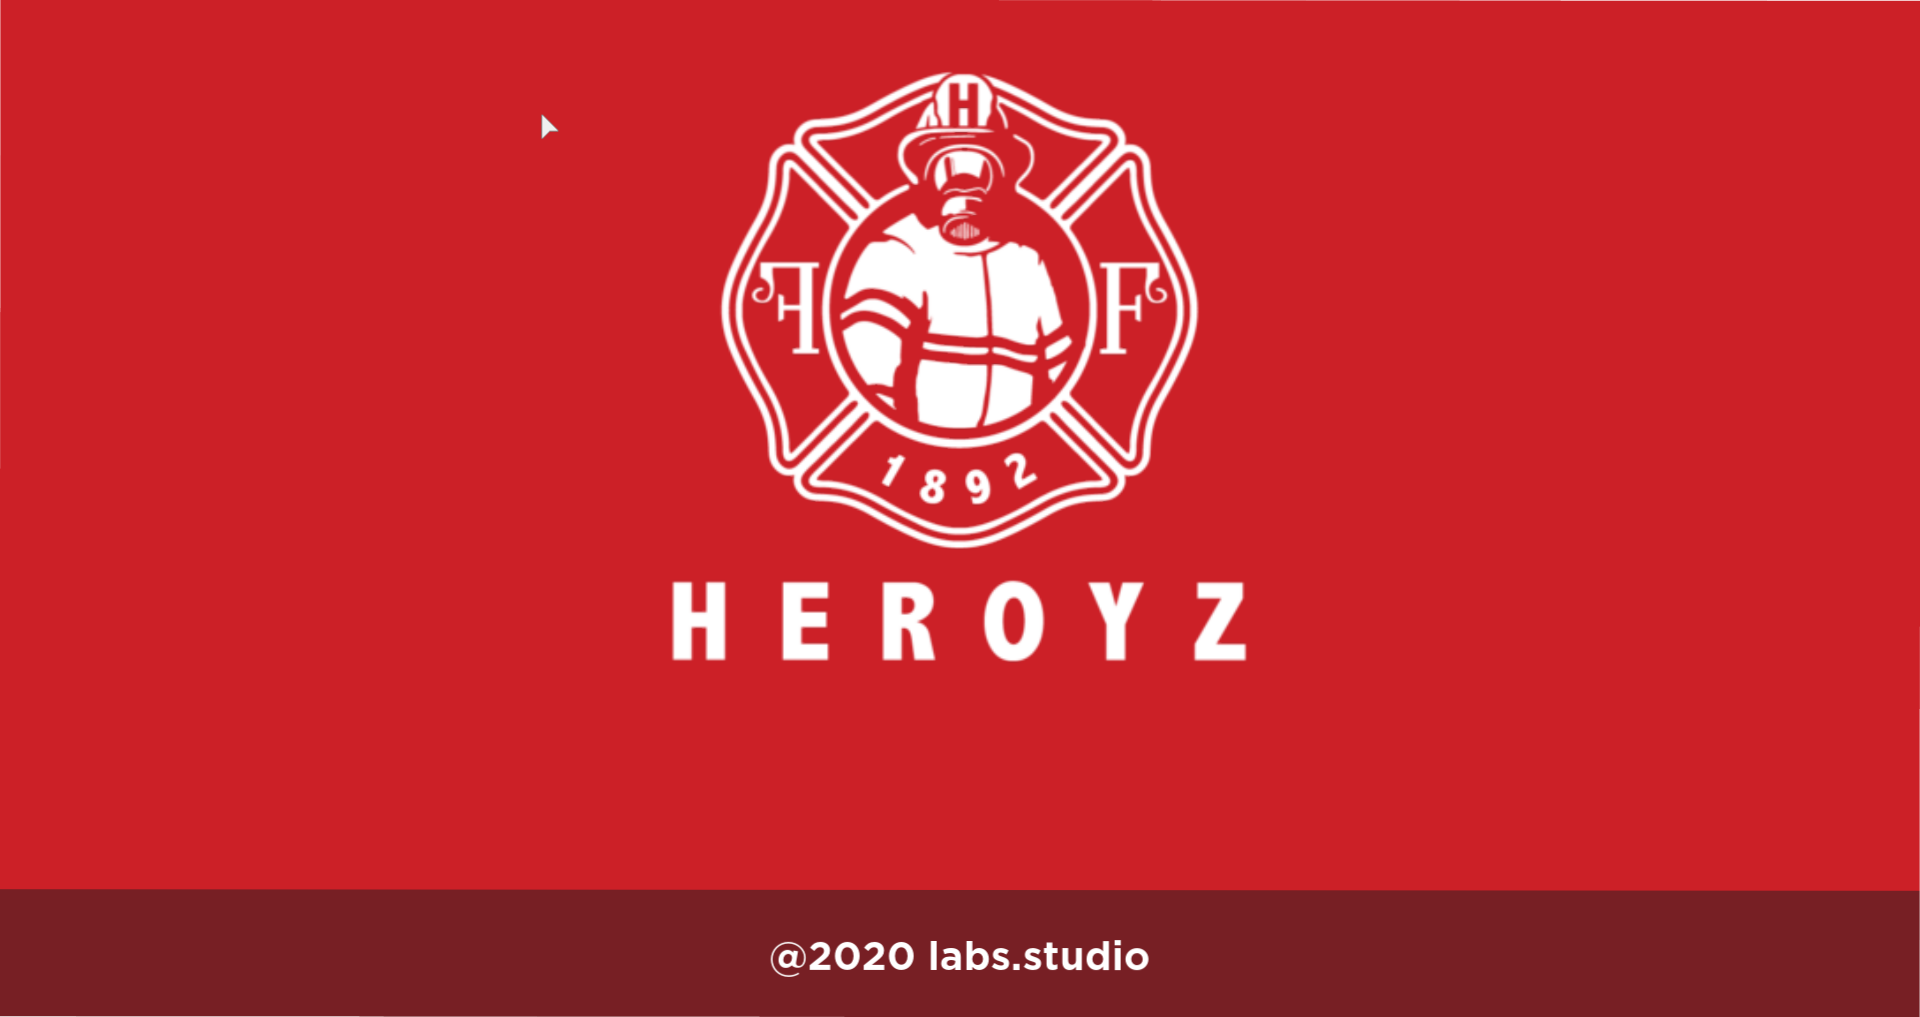
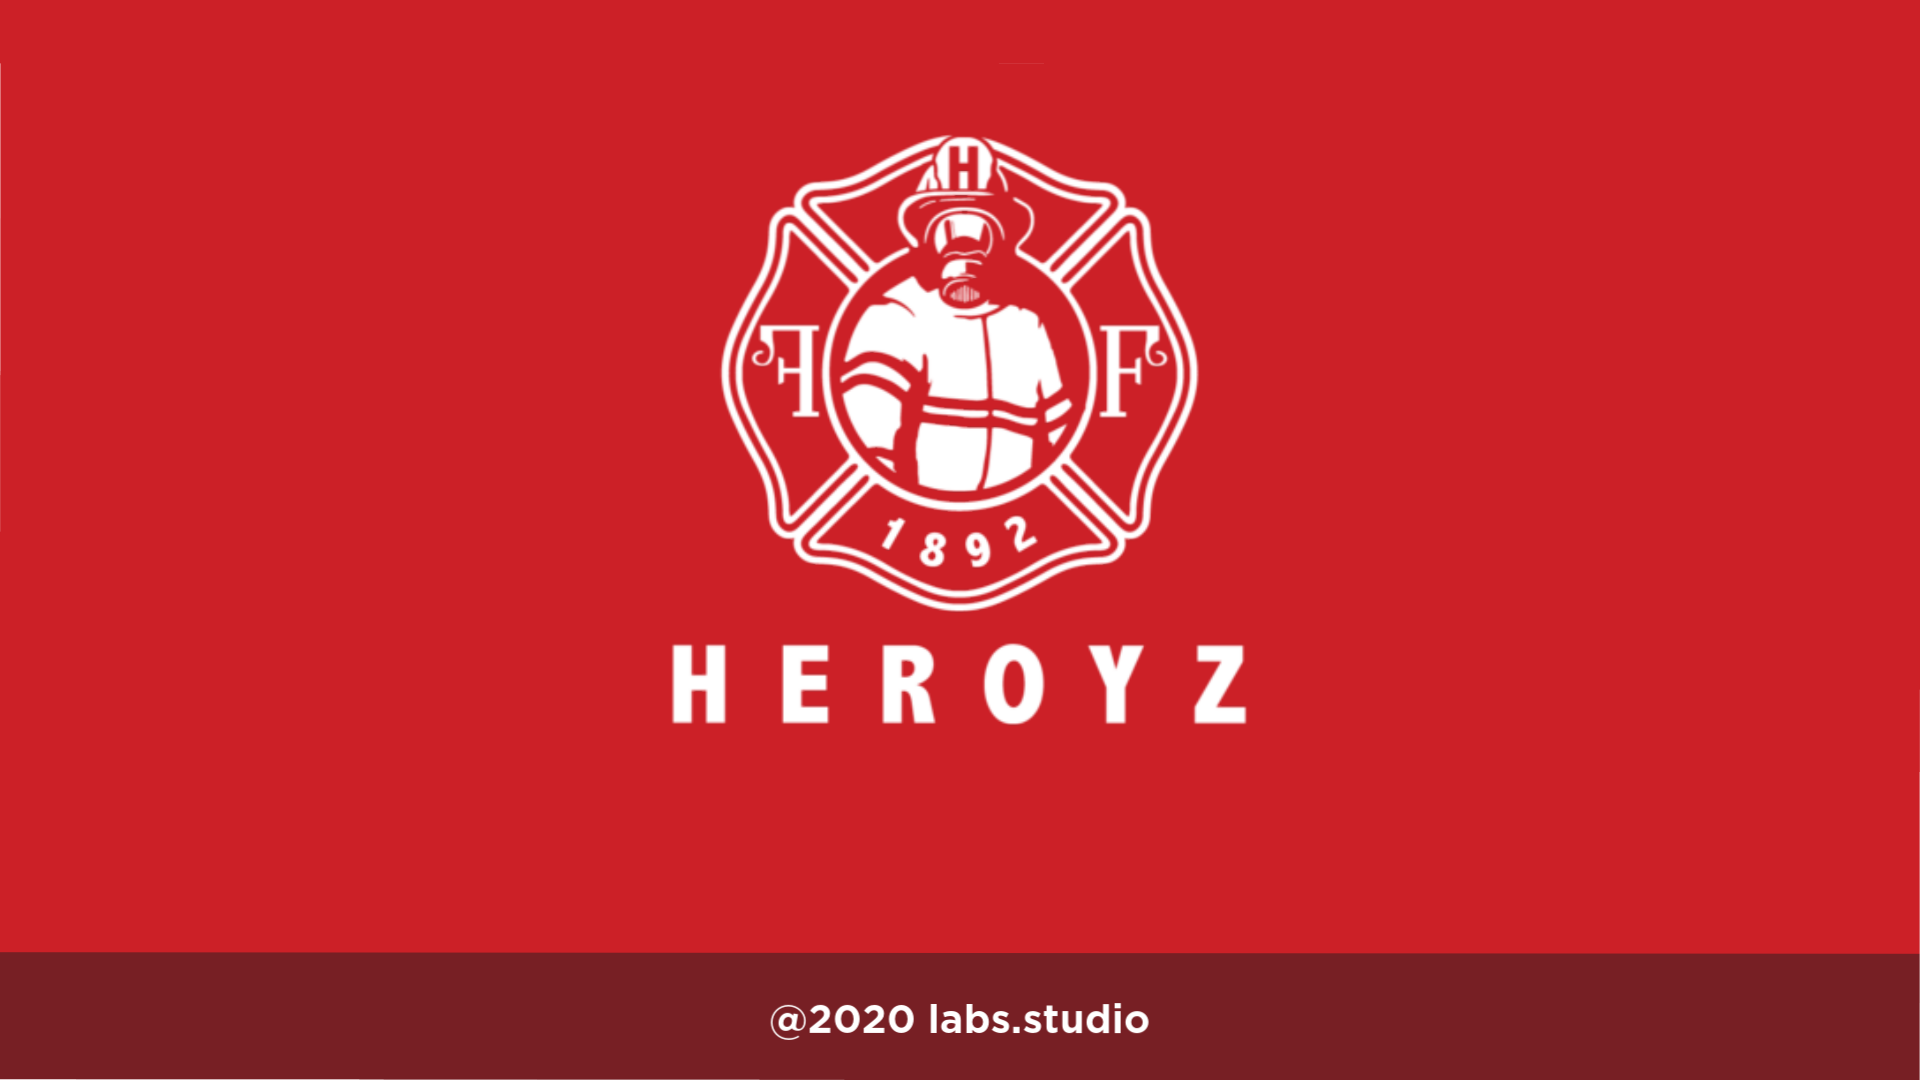
heroyz
heroyz

diff --git a/index.html b/index.html
@@ -9,10 +9,10 @@
 body, html {
   height: 100%;
   margin: 0;
+  background-color: #cc2027;
 }
 
 .bgimg {
-  background-image: url('img/back2.jpg');
   height: 100%;
   background-position: center;
   background-size: cover;
@@ -122,19 +122,22 @@ hr {
 
 <div class="bgimg">
   <div class="topleft">
-    <img src="marca/labs.studio-horizontal-positivo.small.png" alt="Labs Studio" width="200">	<br>
-    <a class="small" target="_blank"  href="https://www.beautiful.ai/player/-MAnLUrnVRrBHJ6G2vYw">Sobre nós</a> / 
-    <a class="small" target="_blank" href="https://www.beautiful.ai/player/-MAnfUbHBCNV6wCB1A1y">About us</a> 
+    <img src="marca/labs.studio-horizontal-negativo.png" alt="Labs Studio" width="200">	<br>
+    <a class="small" target="_blank" style="color: #FFF" href="https://www.beautiful.ai/player/-MAnLUrnVRrBHJ6G2vYw">Sobre nós</a> / 
+    <a class="small" target="_blank" style="color: #FFF" href="https://www.beautiful.ai/player/-MAnfUbHBCNV6wCB1A1y">About us</a> 
+  </div>
+  <div class="middle">
+  <a  target="_blank"  href="https://www.roblox.com/games/5121096211/Heroyz"> <img src="img/heroyz.png" alt="Heroyz logo" width="400">	</a>
   </div>
 
-</div>
-<div class="icon-bar">
-  <a href="https://www.facebook.com/labsstudioltda" class="facebook"><i class="fa fa-facebook"></i></a> 
-  <a href="https://twitter.com/labsstudioltda" class="twitter"><i class="fa fa-twitter"></i></a> 
-  <a href="https://www.linkedin.com/company/labs-studio/" class="linkedin"><i class="fa fa-linkedin"></i></a>
-  <a href="https://www.youtube.com/channel/UCOdhoeiBQIvdHElZyrHilqQ" class="youtube"><i class="fa fa-youtube"></i></a> 
-  <a href="https://www.twitch.tv/labsstudio" class="twitch"><i class="fa fa-twitch"></i></a> 
-  <a href="mailto:contato@labsstudio.games"><i class="fa fa-envelope"></i></a> 
+  <div class="icon-bar">
+    <a href="https://www.facebook.com/labsstudioltda" class="facebook"><i class="fa fa-facebook"></i></a> 
+    <a href="https://twitter.com/labsstudioltda" class="twitter"><i class="fa fa-twitter"></i></a> 
+    <a href="https://www.linkedin.com/company/labs-studio/" class="linkedin"><i class="fa fa-linkedin"></i></a>
+    <a href="https://www.youtube.com/channel/UCOdhoeiBQIvdHElZyrHilqQ" class="youtube"><i class="fa fa-youtube"></i></a> 
+    <a href="https://www.twitch.tv/labsstudio" class="twitch"><i class="fa fa-twitch"></i></a> 
+    <a href="mailto:contato@labsstudio.games"><i class="fa fa-envelope"></i></a> 
+  </div>
 </div>
 </body>
 </html>
